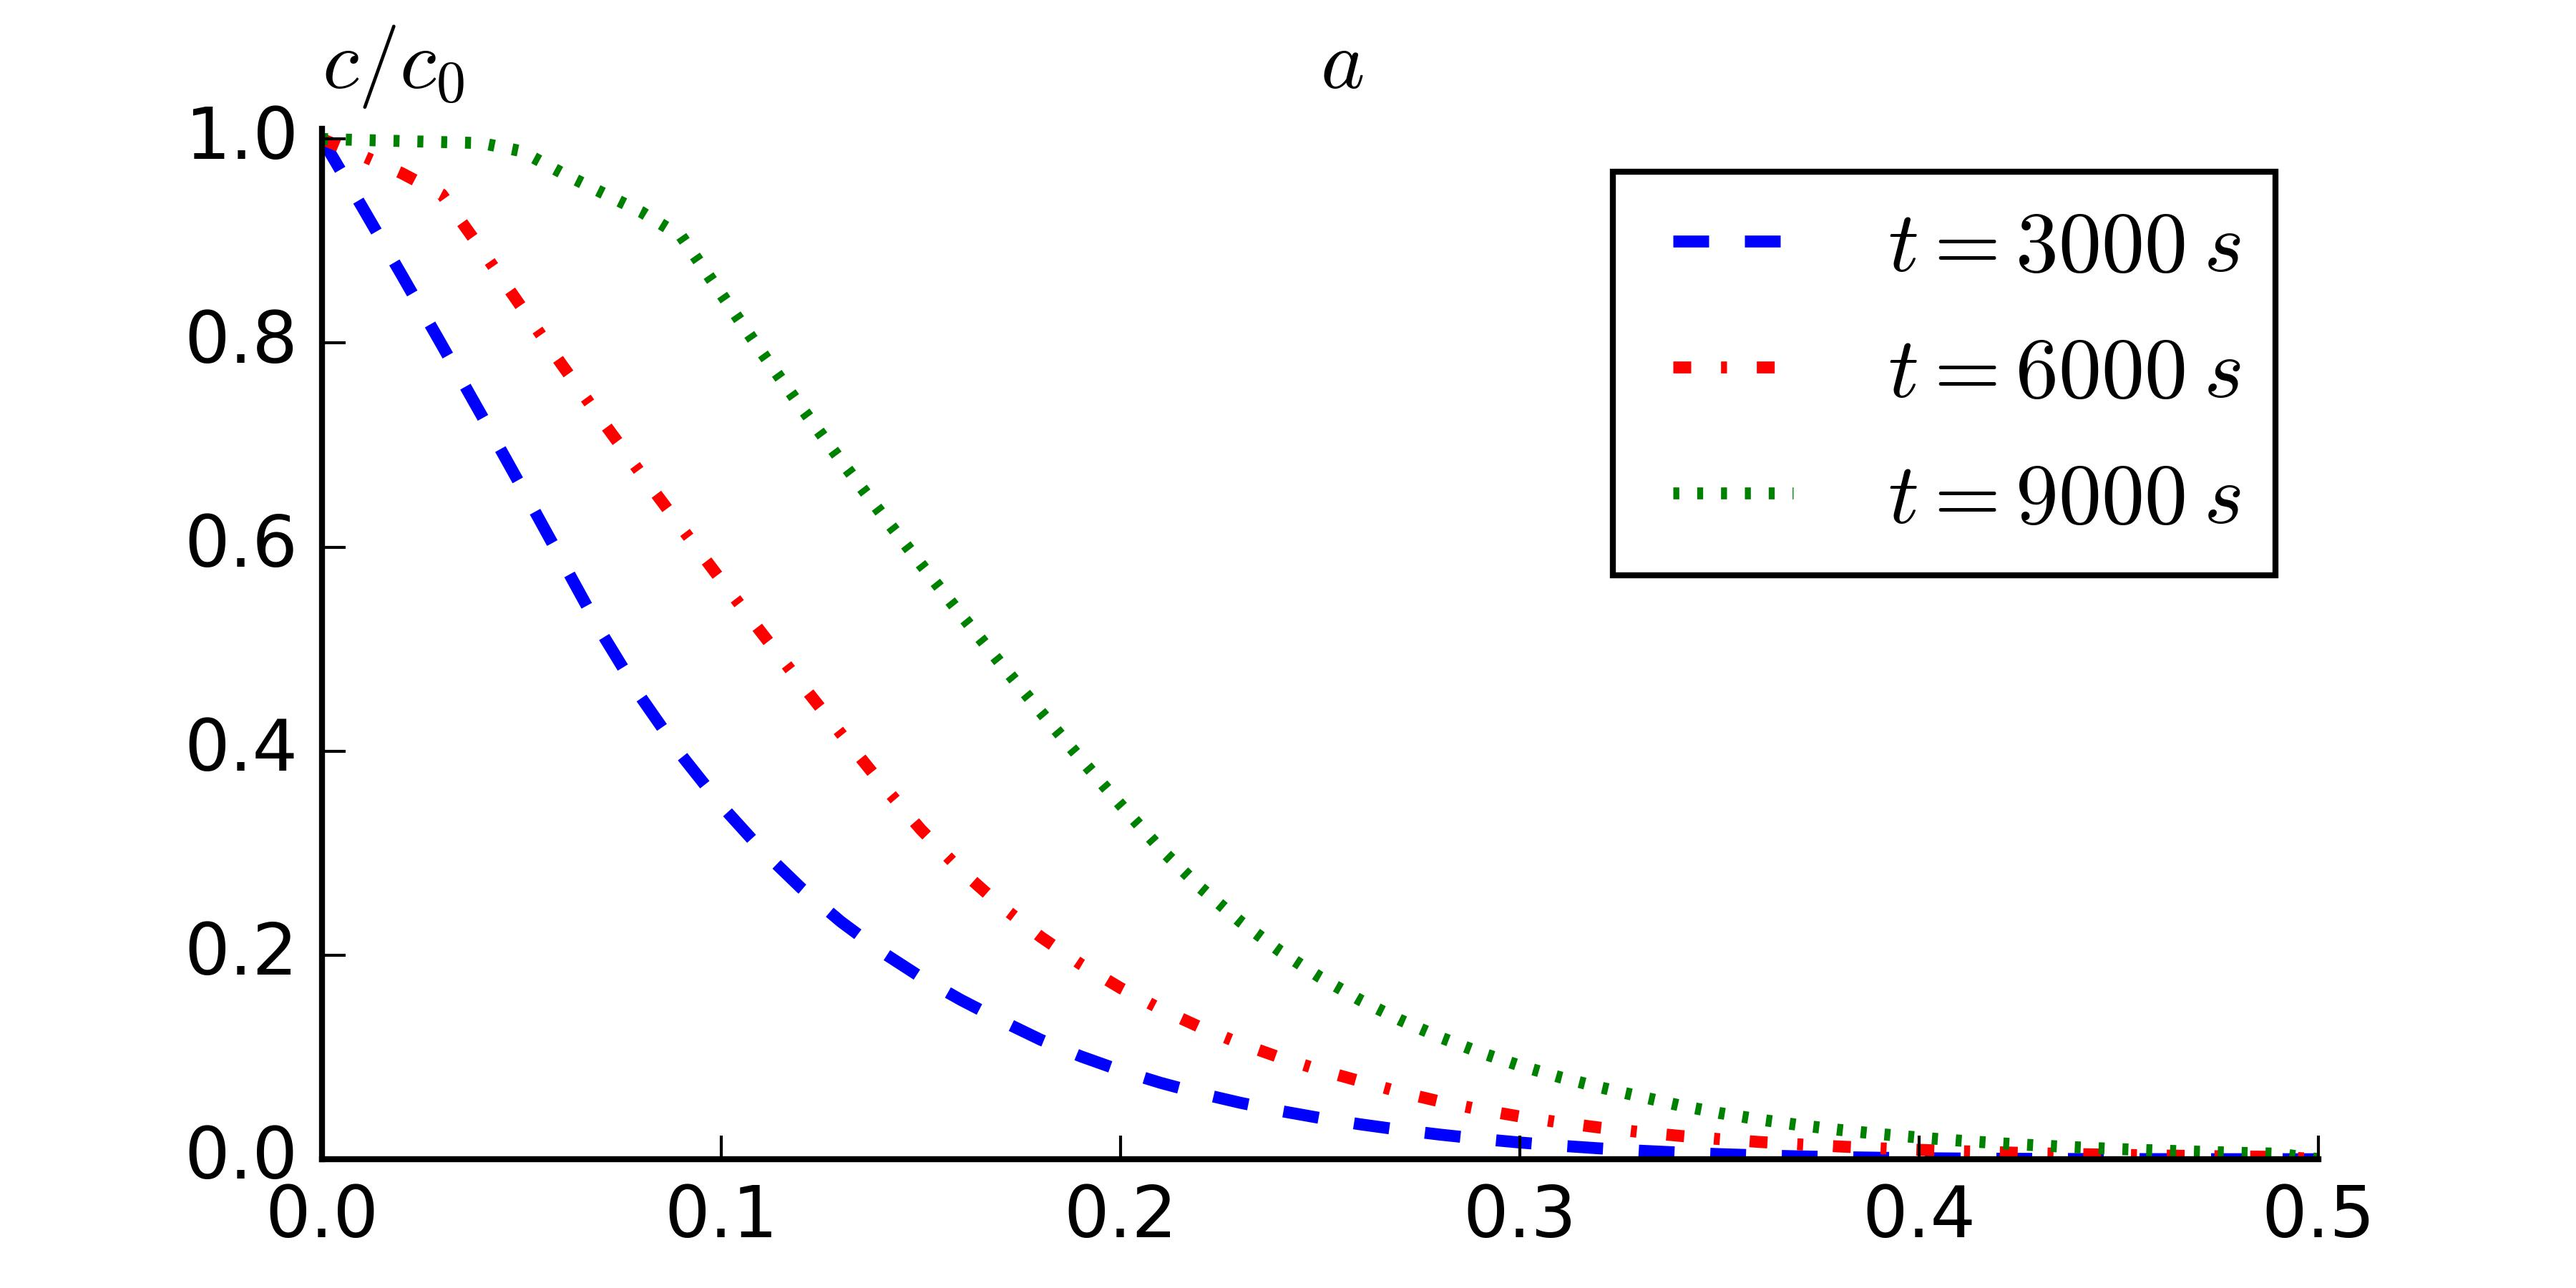
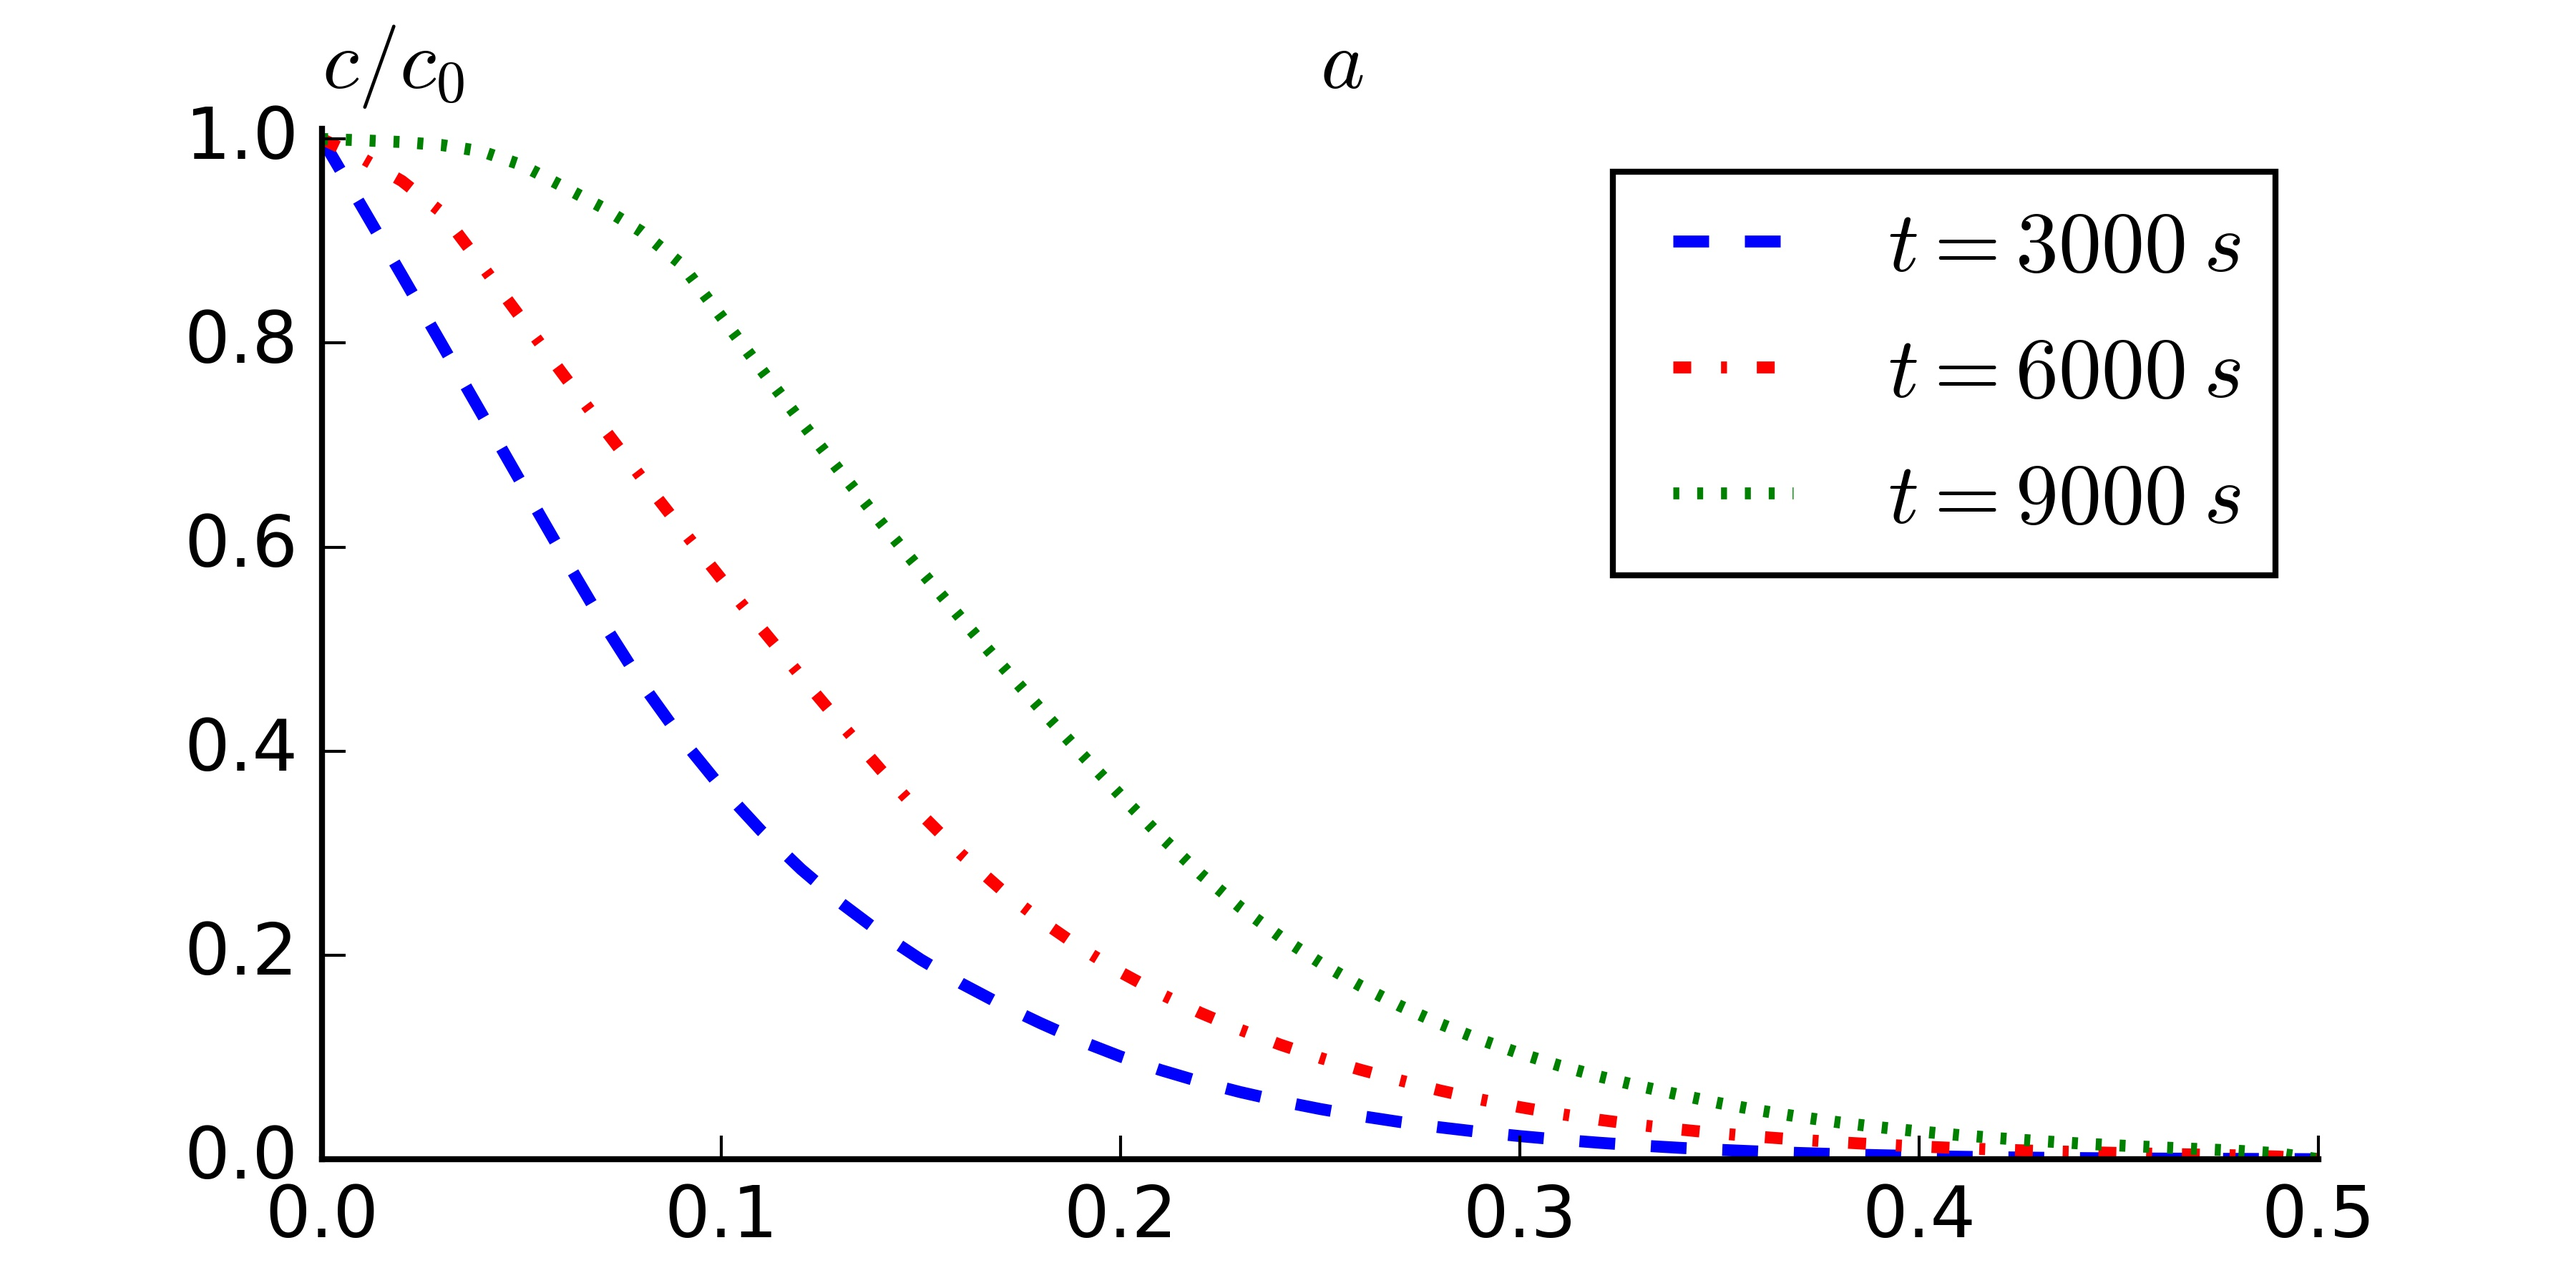
Add files via upload

diff --git a/modulamega.py b/modulamega.py
@@ -22,78 +22,6 @@ def grafikamega(x,c,roa,rop,tm,tau,nn):
     ax.text(ax.get_xlim()[1]/2, ax.get_ylim()[1]*1.05, "$a$",fontsize=14)
     plt.ylim(0.0,1.01)
     plt.yticks(0.2 * np.arange(0, 6, 1))
-    plt.xticks(0.1 * np.arange(0, 6, 1))
-   
-    fig.savefig('cc0.eps')
-    fig.savefig('cc0.jpg',dpi=600)
-    #plt.figure()
-
-    #ca larni chizish
-    fig1 =plt.figure(figsize=(6, 3))
-    plt.style.use('classic')
-    ax = plt.subplot(111)
-    ax.plot(x[:nn],roa[:nn,1*(tm-1)//3],'b--',label='$t=3000  \: s$',lw=2)
-    ax.plot(x[:nn],roa[:nn,2*(tm-1)//3],'r-.',label='$t=6000  \: s$',lw=2)
-    ax.plot(x[:nn],roa[:nn,3*(tm-1)//3],'g:',label='$t=9000  \: s$',lw=2)
-    ax.spines['right'].set_visible(False)
-    ax.spines['top'].set_visible(False)
-    ax.yaxis.set_ticks_position('left')
-    ax.xaxis.set_ticks_position('bottom')
-    plt.legend()
-    ax.text(0.0, ax.get_ylim()[1]*1.05, "$10^3 \cdot c_a, \u0020 m^3/m^3$",fontsize=14)
-    ax.text(ax.get_xlim()[1]*1.01, 0.0, "$x, m$", fontsize=14)
-    ax.text(ax.get_xlim()[1]/2, ax.get_ylim()[1]*1.05, "$b$", fontsize=14)
-    plt.ylim(0.0,4.05)
-    plt.yticks(np.arange(0, 5, 1))
-    ax.yaxis.set_major_formatter(FormatStrFormatter('%.1f'))
-    plt.xticks(0.1 * np.arange(0, 6, 1))
-    fig.savefig('roa.eps')
-    fig1.savefig('roa.jpg',dpi=600)
-    #plt.ylim(0.0,0.0103)
-
-    #cp larni chizish
-    fig2 =plt.figure(figsize=(6, 3))
-    plt.style.use('classic')
-    ax = plt.subplot(111)
-    ax.plot(x[:nn],rop[:nn,1*(tm-1)//3],'b--',label='$t=3000  \: s$',lw=2)
-    ax.plot(x[:nn],rop[:nn,2*(tm-1)//3],'r-.',label='$t=6000  \: s$',lw=2)
-    ax.plot(x[:nn],rop[:nn,3*(tm-1)//3],'g:',label='$t=9000  \: s$',lw=2)
-    ax.spines['right'].set_visible(False)
-    ax.spines['top'].set_visible(False)
-    ax.yaxis.set_ticks_position('left')
-    ax.xaxis.set_ticks_position('bottom')
-    plt.legend()
-    ax.text(0.0, ax.get_ylim()[1]*1.05, "$10^3 \cdot c_p,  \u0020 m^3/m^3$",fontsize=14)
-    ax.text(ax.get_xlim()[1]*1.01, 0.0, "$x, m$", fontsize=14)
-    ax.text(ax.get_xlim()[1]/2, ax.get_ylim()[1]*1.05, "$c$", fontsize=14)
-    plt.ylim(0.0,8.05)
-    plt.yticks(np.arange(0, 9, 2))
-    ax.yaxis.set_major_formatter(FormatStrFormatter('%.1f'))
-    plt.xticks(0.1*np.arange(0, 6, 1))
-
-    fig.savefig('rop.eps')
-    fig2.savefig('rop.jpg',dpi=600)
-
-#cp1 ning turli qiymatglari
-def grafik1_x(x,c,roa,rop,tm,tau,nn):
-
-    #c grafigi
-    fig =plt.figure(figsize=(6, 3))
-    plt.style.use('classic')
-    ax = plt.subplot(111)
-    ax.plot(x[:nn],c[:nn,(tm-1)//3],'b--',label='$t=3000  \: s$',lw=2)
-    ax.plot(x[:nn],c[:nn,2*(tm-1)//3],'r-.',label='$t=6000  \: s$',lw=2)
-    ax.plot(x[:nn],c[:nn,3*(tm-1)//3],'g:',label='$t=9000  \: s$',lw=2)
-    ax.spines['right'].set_visible(False)
-    ax.spines['top'].set_visible(False)
-    ax.yaxis.set_ticks_position('left')
-    ax.xaxis.set_ticks_position('bottom')
-    plt.legend()
-    ax.text(0.0, ax.get_ylim()[1]*1.05, "$c/c_0$",fontsize=14)
-   # ax.text(ax.get_xlim()[1]*1.01, 0.0, "$x, m$", fontsize=14)
-    ax.text(ax.get_xlim()[1]/2, ax.get_ylim()[1]*1.05, "$a$",fontsize=14)
-    plt.ylim(0.0,1.01)
-    plt.yticks(0.2 * np.arange(0, 6, 1))
     plt.xticks(0.1 * np.arange(0, 5, 1))
    
     #fig.savefig('cc0.eps')
@@ -142,6 +70,78 @@ def grafik1_x(x,c,roa,rop,tm,tau,nn):
     plt.yticks(np.arange(0, 9, 2))
     ax.yaxis.set_major_formatter(FormatStrFormatter('%.1f'))
     plt.xticks(0.1*np.arange(0, 5, 1))
+
+    #fig.savefig('rop.eps')
+    fig2.savefig('rop.jpg',dpi=600)
+
+#cp1 ning turli qiymatglari
+def grafik1_x(x,c,roa,rop,tm,tau,nn):
+
+    #c grafigi
+    fig =plt.figure(figsize=(6, 3))
+    plt.style.use('classic')
+    ax = plt.subplot(111)
+    ax.plot(x[:nn],c[:nn,(tm-1)//3],'b--',label='$t=3000  \: s$',lw=2)
+    ax.plot(x[:nn],c[:nn,2*(tm-1)//3],'r-.',label='$t=6000  \: s$',lw=2)
+    ax.plot(x[:nn],c[:nn,3*(tm-1)//3],'g:',label='$t=9000  \: s$',lw=2)
+    ax.spines['right'].set_visible(False)
+    ax.spines['top'].set_visible(False)
+    ax.yaxis.set_ticks_position('left')
+    ax.xaxis.set_ticks_position('bottom')
+    plt.legend()
+    ax.text(0.0, ax.get_ylim()[1]*1.05, "$c/c_0$",fontsize=14)
+   # ax.text(ax.get_xlim()[1]*1.01, 0.0, "$x, m$", fontsize=14)
+    ax.text(ax.get_xlim()[1]/2, ax.get_ylim()[1]*1.05, "$a$",fontsize=14)
+    plt.ylim(0.0,1.01)
+    plt.yticks(0.2 * np.arange(0, 6, 1))
+    plt.xticks(0.1 * np.arange(0, 6, 1))
+   
+    #fig.savefig('cc0.eps')
+    fig.savefig('cc0.jpg',dpi=600)
+    #plt.figure()
+
+    #ca larni chizish
+    fig1 =plt.figure(figsize=(6, 3))
+    plt.style.use('classic')
+    ax = plt.subplot(111)
+    ax.plot(x[:nn],roa[:nn,1*(tm-1)//3],'b--',label='$t=3000  \: s$',lw=2)
+    ax.plot(x[:nn],roa[:nn,2*(tm-1)//3],'r-.',label='$t=6000  \: s$',lw=2)
+    ax.plot(x[:nn],roa[:nn,3*(tm-1)//3],'g:',label='$t=9000  \: s$',lw=2)
+    ax.spines['right'].set_visible(False)
+    ax.spines['top'].set_visible(False)
+    ax.yaxis.set_ticks_position('left')
+    ax.xaxis.set_ticks_position('bottom')
+    plt.legend()
+    ax.text(0.0, ax.get_ylim()[1]*1.05, "$10^3 \cdot c_a, \u0020 m^3/m^3$",fontsize=14)
+    ax.text(ax.get_xlim()[1]*1.01, 0.0, "$x, m$", fontsize=14)
+    ax.text(ax.get_xlim()[1]/2, ax.get_ylim()[1]*1.05, "$b$", fontsize=14)
+    plt.ylim(0.0,4.05)
+    plt.yticks(np.arange(0, 5, 1))
+    ax.yaxis.set_major_formatter(FormatStrFormatter('%.1f'))
+    plt.xticks(0.1 * np.arange(0, 6, 1))
+    #fig.savefig('roa.eps')
+    fig1.savefig('roa.jpg',dpi=600)
+    #plt.ylim(0.0,0.0103)
+
+    #cp larni chizish
+    fig2 =plt.figure(figsize=(6, 3))
+    plt.style.use('classic')
+    ax = plt.subplot(111)
+    ax.plot(x[:nn],rop[:nn,1*(tm-1)//3],'b--',label='$t=3000  \: s$',lw=2)
+    ax.plot(x[:nn],rop[:nn,2*(tm-1)//3],'r-.',label='$t=6000  \: s$',lw=2)
+    ax.plot(x[:nn],rop[:nn,3*(tm-1)//3],'g:',label='$t=9000  \: s$',lw=2)
+    ax.spines['right'].set_visible(False)
+    ax.spines['top'].set_visible(False)
+    ax.yaxis.set_ticks_position('left')
+    ax.xaxis.set_ticks_position('bottom')
+    plt.legend()
+    ax.text(0.0, ax.get_ylim()[1]*1.05, "$10^3 \cdot c_p,  \u0020 m^3/m^3$",fontsize=14)
+    ax.text(ax.get_xlim()[1]*1.01, 0.0, "$x, m$", fontsize=14)
+    ax.text(ax.get_xlim()[1]/2, ax.get_ylim()[1]*1.05, "$c$", fontsize=14)
+    plt.ylim(0.0,8.05)
+    plt.yticks(np.arange(0, 9, 2))
+    ax.yaxis.set_major_formatter(FormatStrFormatter('%.1f'))
+    plt.xticks(0.1*np.arange(0, 6, 1))
 
     #fig.savefig('rop.eps')
     fig2.savefig('rop.jpg',dpi=600)

diff --git a/2.3_2..py b/2.3_2..py
@@ -1,0 +1,107 @@
+# -*- coding: utf-8 -*-
+"""
+Created on Wed May  8 17:44:36 2024
+
+@author: User
+"""
+
+import numpy as np
+import matplotlib.pyplot as plt
+import math
+import modulamega
+
+#to'r parametrlari
+nn=51
+L=41
+tm=3001#3001
+tmax=range(1,tm) #vaqt
+tau=3
+h=0.01
+
+#model parametrlari
+tetta=0.3
+v=1e-4
+c00=0.01
+D=0.5e-6
+
+ca0=4e-3
+cp0=8e-3
+ca1=2e-4
+cp1=3e-3
+
+betp0=3e-4
+betar=1.2e-4#/1.2
+betaa=1.0e-4#/0.8e-4
+betad=1.2e-4#0.5e-4
+
+lambdae=1e-5
+lambdaea=2e-5
+lambdaep=1.5e-5
+
+#Procedure Nach_Dan;{Boshlang'ich va chegaraviy shartlar}
+ca=np.zeros((nn,tm), dtype=float)
+cp=np.zeros((nn,tm), dtype=float)
+c=np.zeros((nn,tm), dtype=float)
+alpha=np.zeros(nn, dtype=float)
+bet=np.zeros(nn, dtype=float)
+F=np.zeros((nn,tm), dtype=float)
+c[0,:]=c00
+x=np.zeros(nn, dtype=float)
+for i in range(nn):
+    x[i]=i*h
+#for j in range(tm):
+  # c[0,j]=c00*(1-math.exp(-w*j*tau))
+   
+def bettap(cp,cij):
+   if  cp<=cp1:
+     return betp0*cij-lambdaep*cp
+   elif cp<cp0:
+     return betp0*cp1/cp*cij-lambdaep*cp
+   else: 
+     return 0.0
+#  /// bettaa ni fisoblash funksiyasi
+def bettaa(ca,cij):
+   if  ca<=ca1:
+     return betar*cij-lambdaea*ca
+   elif ca<ca0:
+     return betaa*cij-betad*ca-lambdaea*ca
+   else: 
+     return 0.0
+
+#Boshlandi
+for j in tmax:
+     for i in range(nn):
+         ca[i,j]=ca[i,j-1]+tau*bettaa(ca[i,j-1],c[i,j-1])
+         cp[i,j]=cp[i,j-1]+tau*bettap(cp[i,j-1],c[i,j-1])
+         if ca[i,j]>ca0:
+             ca[i, j]= ca0
+         if cp[i,j]>cp0:
+             cp[i, j]= cp0
+    
+         A = h*tau*(v+D/L)+tau*D*(1+(x[i]/L))
+         B = h*h+h*tau*(v+D/L)+2*tau*D*(1+x[i]/L)+lambdae*tau*h*h
+         E = tau*D*(1+x[i]/L)
+        
+          
+     alpha[1] = 0
+    
+     bet[1] = c00
+     for i in range(1, nn - 1):
+        F[i, j] = (h * h ) * c[i, j - 1] - 1 / tetta * (ca[i, j] - ca[i, j - 1]) *h*h - 1 / tetta * (
+                 cp[i, j] - cp[i, j - 1]) *h*h
+        bet[i + 1] = (F[i, j] + A * bet[i]) / (B - A * alpha[i])
+        alpha[i + 1] = E / (B - A * alpha[i])
+        c[nn-1,:]= 0
+        
+     for i in reversed(range(nn - 1)):
+         
+         c[i, j] = alpha[i + 1] * c[i + 1, j] + bet[i + 1]
+         
+       
+    
+#grafiklar
+
+c=c/c00
+nk=51
+x = np.linspace(0, h*(nk-1), num=nk, endpoint=True)
+modulamega.grafik1_x(x,c,1e3*ca,1e3*cp,tm,tau,nn)
